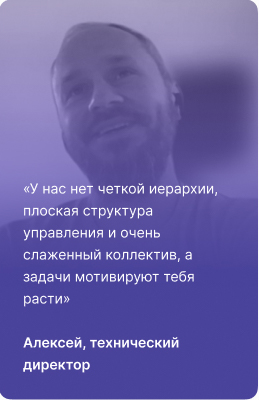
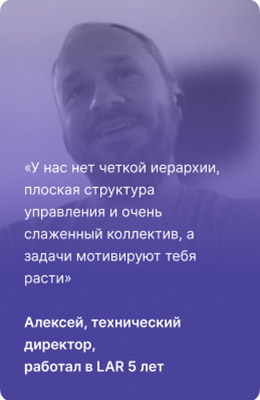
Верстка 29.11.2022 Удаление общего фото, замена обложек

diff --git a/index.html b/index.html
@@ -229,7 +229,6 @@
                 <li class="team__features-item">Зарплата в фунтах стерлингов или рублях</li>
                 <li class="team__features-item">Расширенное ДМС, оплата обучения</li>
             </ul>
-            <img src="./img/lar-team.jpg" alt="LAR team" class="team__image">
             <div class="team__slider">
                 <ul class="team__terms terms swiper-wrapper list-reset">
                     <li class="terms__item swiper-slide">

diff --git a/css/style.css b/css/style.css
@@ -533,7 +533,7 @@ textarea:disabled {
   grid-template-columns: repeat(2, 1fr);
   gap: 1.5rem;
   padding: 2.5rem;
-  margin: 2.5rem 0;
+  margin-top: 2.5rem;
   background: #F9F7FD;
   border-radius: 0.75rem;
 }
